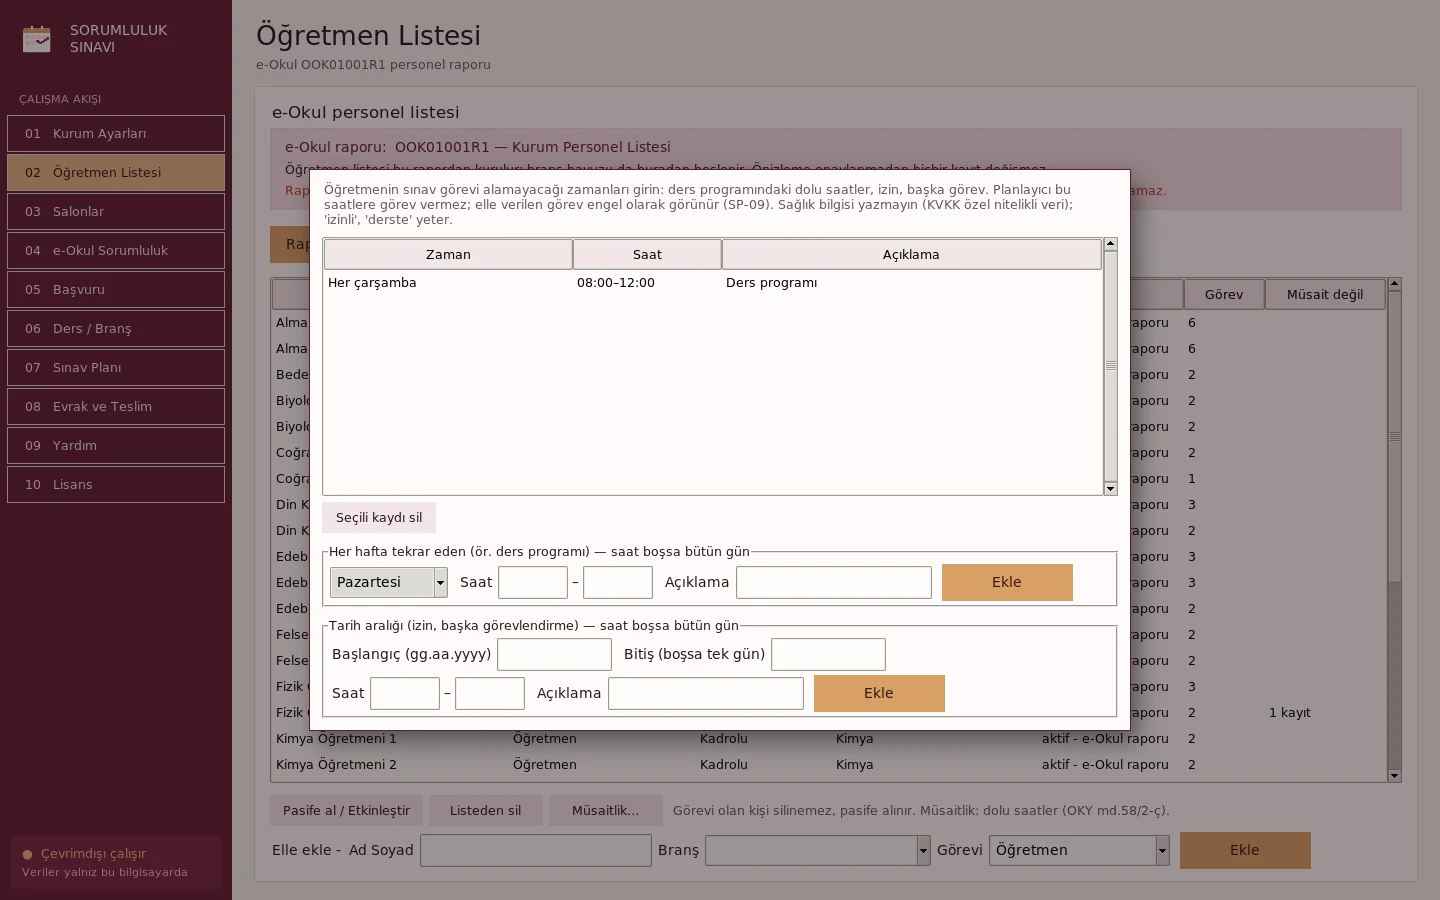
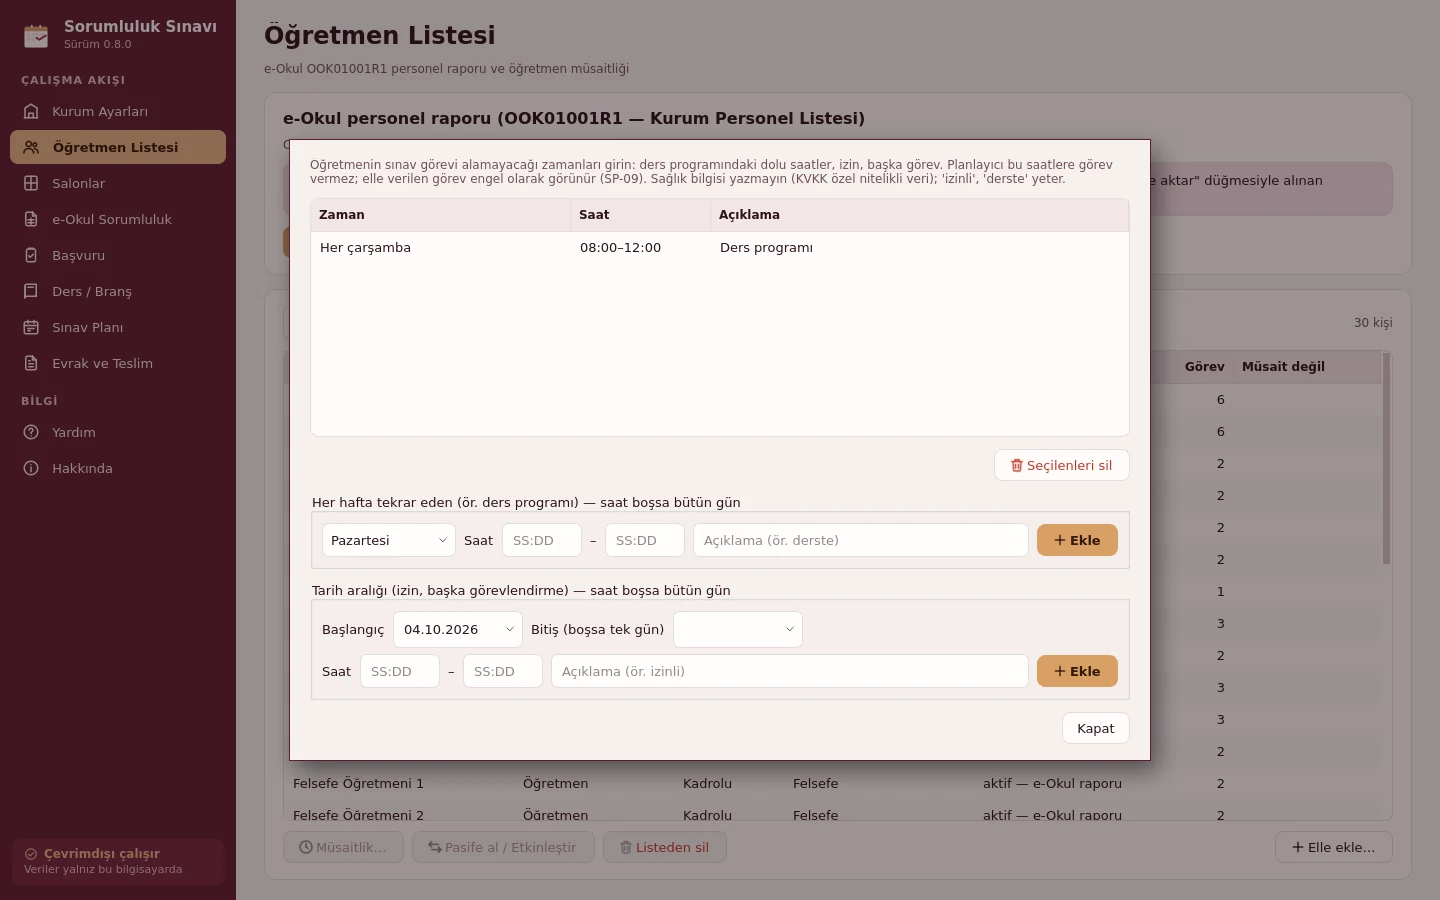
Sorumluluk Sınavı: sürüm kartı 0.8.0, Qt ekranları, güncelleme denetimi
0.8.0'da arayüz Tkinter'dan Qt'ye taşındı ve yeni sürüm denetimi geldi;
kaynak uygulama deposundaki CHANGELOG.md, BENIOKU.md ve KURULUM.md.

Doğru olmaktan çıkan ifadeler düzeltildi: "hiçbir ağ isteği yapmaz"
(tanıtım, kılavuz, gizlilik, proje kartı), "güncelleme denetimi yoktur"
(gizlilik) ve "Tkinter" (proje kartı). Gizlilik sayfasına denetimin ne
gönderdiği yazıldı: GitHub'a yalnız sürüm sorusu; okul ya da kişi verisi,
çerez, cihaz kimliği yok; GitHub'ın gördüğü IP adresi ve zaman; nasıl
kapatıldığı. Yurt dışı hizmetler bölümüne GitHub'ın bu rolü eklendi.

Kılavuz: yeni "Güncelleme denetimi" bölümü (kurum genelinde kapatma
dâhil), başvuru ekranının üç sekmesi ve hızlı işaretleme yolları,
kısayollar, plan ekranının sağ paneli, toplu teslim, Pardus bağımlılıkları
ve X11 notu, GitHub engelli ağ için sorun giderme maddesi, sürüm numaraları.

Ekran görüntüleri 0.8.0 ile debian:12 kabında yeniden alındı (araclar/
site_ekranlari.py); başvuru ekranına numara listesiyle işaretleme
görüntüsü eklendi. Örnek evrak değişmedi (evrak kodu aynı).

R2'deki dört dosya canlıdan doğrulandı: 200, boyutlar ve içerik türleri
eşleşiyor, üç paketin SHA-256'sı birleşik özet dosyasıyla tutuyor.

Doğrulama: npm run build (37 sayfa; ilk derlemedeki "Duplicate id"
uyarısı önbellekten, ikinci derleme temiz; check-releases 0.8.0 güncel),
993 iç bağlantı ve çapa (kırık yok), dokuz görüntü önizleme sunucusundan
doğru türle geliyor.

diff --git a/src/content/projects/sorumluluk-sinavi.md b/src/content/projects/sorumluluk-sinavi.md
@@ -8,7 +8,7 @@ featured: true
 order: 3
 siteUrl: /sorumluluk-sinavi/
 accent: '#9a2f4a'
-badge: Sürüm 0.7.0
+badge: Sürüm 0.8.0
 ---
 
 Sorumluluk Sınavı, yılda üç kez tekrarlanan ve her seferinde birkaç günü yiyen
@@ -17,7 +17,9 @@ masaüstü programına taşımak için yazıldı. e-Okul'dan alınan iki raporu 
 aktarırsınız: personel listesi ve sorumluluk sınavına girecek öğrenci listesi.
 Gerisini program yapar; sınav oturumlarını günlere ve saatlere yerleştirir,
 her oturuma komisyon ve gözcü atar, ortaya çıkan planı sürükle-bırakla
-düzeltmenize izin verir ve müdür onayıyla kesinleştirir.
+düzeltmenize izin verir ve müdür onayıyla kesinleştirir. Başvurusu gereken
+beklemeli ve devamsız öğrenciler listede aranıp tek tıkla, toplu olarak ya da
+e-Okul'dan kopyalanan okul numaralarıyla işaretlenir.
 
 İşin zor tarafı sınavı bir güne koymak değil, o saatte komisyonu
 kurabilmektir. Program bu ikisini ayrı adımlar olarak değil tek problem
@@ -52,12 +54,13 @@ müdür ve rehber öğretmene görev verilmemesi — böyle etiketlenir. Motorun
 sayaçları Eylül, Şubat ve Haziran dönemleri arasında taşınır; ilk dönemde çok
 görev almış öğretmen sonrakinde geri plana düşer.
 
-Teknik tarafta uygulama Python ve Tkinter ile yazılmıştır, veritabanı
+Teknik tarafta uygulama Python ve Qt (PySide6) ile yazılmıştır, veritabanı
 SQLite'tır ve şema değişiklikleri göç dosyalarıyla ilerler. Kural katmanı
 veritabanını hiç görmez; bu sayede kurallar veritabanı olmadan test edilebilir.
 Belgeler `.docx` olarak üretilir. Windows için PyInstaller + Inno Setup ile
 kullanıcı başına kurulan, yönetici parolası istemeyen bir paket, Pardus 23 ve
 üzeri için bütünleşik bir `.deb` paketi çıkarılır.
-Program hiçbir ağ isteği yapmaz: bulut, telemetri, çevrimiçi güncelleme yoktur
-ve T.C. kimlik numarası okunmaz. Ticari olmayan kullanım için ücretsizdir
+Öğrenci ve personel verisi hiçbir yere gönderilmez: bulut ve telemetri yoktur,
+T.C. kimlik numarası okunmaz. İnternete çıkan tek istek, veri taşımayan yeni
+sürüm denetimidir ve kapatılabilir. Ticari olmayan kullanım için ücretsizdir
 (PolyForm Noncommercial 1.0.0).
